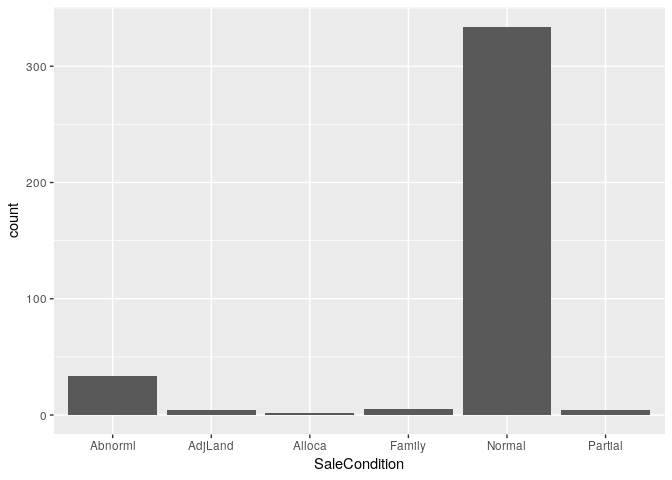
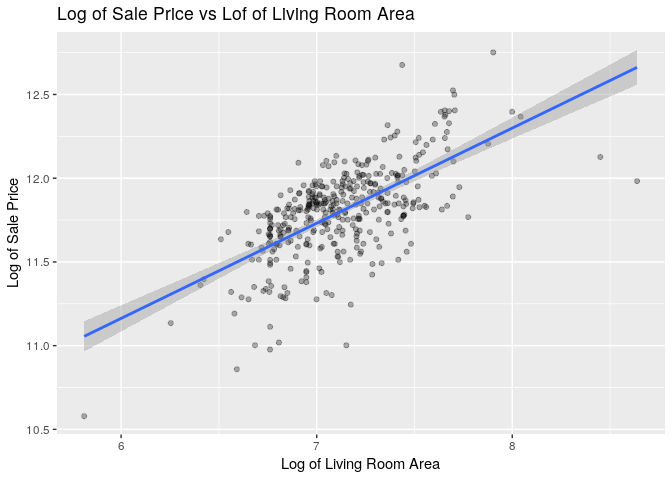
Reroder plots Change layout of assessment plots

diff --git a/analysis/studies/question1.md b/analysis/studies/question1.md
@@ -17,6 +17,11 @@ and Brookside (`NAmes`, `Edwards` and `BrkSide`).
 library(knitr)
 library(tidyverse)
 library(olsrr)
+library(gridExtra)
+
+# helper code
+source('../helper/visual.R')
+source('../helper/data_munging.R')
 
 # load data
 train <- read_csv('../data/train.csv')
@@ -30,7 +35,6 @@ test <- read_csv('../data/test.csv')
 ``` r
 # select data of interest
 train <- train %>% 
-#  select(c('SalePrice','GrLivArea','Neighborhood')) %>%
   filter(Neighborhood == 'NAmes' | Neighborhood == 'Edwards' | Neighborhood == 'BrkSide')
 train$Neighborhood <- as.factor(train$Neighborhood)
 ```
@@ -80,7 +84,7 @@ in `GrLivArea` are pulling the regression line. A log transfrom on
 
 ``` r
 train %>% ggplot(aes(x = GrLivArea, y = SalePrice)) +
-  geom_point() +
+  geom_point(alpha = 0.3) +
   geom_smooth(method = 'lm') + 
   labs(title = 'Sale Price vs Living Room Area', 
        y = 'Log of Sale Price', x = 'Living Room Area')
@@ -96,7 +100,7 @@ with an increase in varaince of `SalePrice`. A log transform of
 
 ``` r
 train %>% ggplot(aes(x = log(GrLivArea), y = SalePrice)) +
-  geom_point() +
+  geom_point(alpha = 0.3) +
   geom_smooth(method = 'lm') + 
   labs(title = 'Sale Price vs Log of Living Room Area', 
        y = 'Sale Price', x = 'Log of Living Room Area')
@@ -112,9 +116,9 @@ should be investigated.
 
 ``` r
 train %>% ggplot(aes(x = log(GrLivArea), y = log(SalePrice))) +
-  geom_point() +
+  geom_point(alpha = 0.3) +
   geom_smooth(method = 'lm') + 
-  labs(title = 'Log of Sale Price vs Lof of Living Room Area', 
+  labs(title = 'Log of Sale Price vs Log of Living Room Area', 
        y = 'Log of Sale Price', x = 'Log of Living Room Area')
 ```
 
@@ -128,31 +132,60 @@ were not completed at the time of assessment.
 
 ``` r
 train %>% ggplot(aes(x = log(GrLivArea), y = log(SalePrice))) +
-  geom_point() +
+  geom_point(alpha = 0.3) +
   geom_smooth(method = 'lm') + 
-  labs(title = 'Log of Sale Price vs Lof of Living Room Area', 
+  labs(title = 'Log of Sale Price vs Log of Living Room Area', 
        y = 'Log of Sale Price', x = 'Log of Living Room Area') +
   geom_text(aes(label = ifelse((log(GrLivArea) > 7.75 & log(SalePrice) > 11) |
                                  (log(SalePrice) > 12.45),
-                               SaleCondition, '')),
-            hjust=0,
-            vjust=0)
+                               SaleCondition, '')), hjust=0, vjust=0)
 ```
 
 ![](question1_files/figure-gfm/log-log-plot-labeled-1.png)<!-- -->
 
-``` r
-train %>% ggplot(aes(x = SaleCondition)) + 
-  geom_bar()
-```
-
-![](question1_files/figure-gfm/unnamed-chunk-2-1.png)<!-- -->
+Reploting without the influential values as little difference on the
+regression line. These points will be included in the regression
+analysis.
 
 ``` r
-# create dummy variables with Neighborhood == 'Edwards' as reference
-train$Neighborhood_BrkSide <-  as.numeric(train$Neighborhood == 'BrkSide')
-train$Neighborhood_NAmes <-  as.numeric(train$Neighborhood == 'NAmes')
+temp <- train %>% filter(SaleCondition != 'Partial')
+temp %>% ggplot(aes(x = log(GrLivArea), y = log(SalePrice))) +
+  geom_point(alpha = 0.3) +
+  geom_smooth(method = 'lm') + 
+  labs(title = 'Log of Sale Price vs Log of Living Room Area', 
+       y = 'Log of Sale Price', x = 'Log of Living Room Area')
 ```
+
+![](question1_files/figure-gfm/repolt-without-partial-points-1.png)<!-- -->
+
+Scatter plot log of sale price vs log of living room area for each
+neighborhood. In each case, there is not sigificant evidence again the
+assumption of linearity.
+
+``` r
+regplot.names <- train %>% filter(Neighborhood == 'NAmes') %>%
+  ggplot(aes(x = log(GrLivArea), y = log(SalePrice))) +
+  geom_point(alpha = 0.3) +
+  geom_smooth(method = 'lm') + 
+  labs(subtitle = 'Northwest Ames', 
+       y = 'Log of Sale Price', x = 'Log of Living Room Area')
+regplot.ed <- train %>% filter(Neighborhood == 'Edwards') %>%
+  ggplot(aes(x = log(GrLivArea), y = log(SalePrice))) +
+  geom_point(alpha = 0.3) +
+  geom_smooth(method = 'lm') + 
+  labs(subtitle = 'Edwards', 
+       y = 'Log of Sale Price', x = 'Log of Living Room Area')
+regplot.brk <- train %>% filter(Neighborhood == 'BrkSide') %>%
+  ggplot(aes(x = log(GrLivArea), y = log(SalePrice))) +
+  geom_point(alpha = 0.3) +
+  geom_smooth(method = 'lm') + 
+  labs(subtitle = 'Brook Side', 
+       y = 'Log of Sale Price', x = 'Log of Living Room Area')
+grid.arrange(regplot.names,regplot.ed,regplot.brk, nrow = 2,
+             top = 'Regression Plots for Neighborhoods')
+```
+
+![](question1_files/figure-gfm/log-log-plot-by-N-1.png)<!-- -->
 
 ## Model
 
@@ -161,6 +194,14 @@ Based on the log-log plot above, the response will be modeled as
 ![model\_equation](./question1_files/model_equation.png)
 
 where Edwards neighborhood is used for reference.
+
+``` r
+# create dummy variables with Neighborhood == 'Edwards' as reference
+train <- get.dummies(train, "Neighborhood", 'Edwards')
+```
+
+    ## [1] "Neighborhood_BrkSide"
+    ## [1] "Neighborhood_NAmes"
 
 ``` r
 # model the mean response given equation above
@@ -207,66 +248,19 @@ summary(model)
 ## Model Assumption Assessment
 
 ``` r
-# get predicted values
-train$Predicted <- predict(model, train[,c('GrLivArea','Neighborhood_BrkSide','Neighborhood_NAmes')])
-train$Resid <- model$residuals
+basic.fit.plots(train, model)
 ```
 
-### Normality
+![](question1_files/figure-gfm/diag-plots-1.png)<!-- -->
 
 ``` r
-qqnorm(model$residuals)
-```
-
-![](question1_files/figure-gfm/unnamed-chunk-5-1.png)<!-- -->
-
-``` r
-hist(model$residuals)
-```
-
-![](question1_files/figure-gfm/unnamed-chunk-5-2.png)<!-- -->
-
-### Linear Trend
-
-``` r
-train %>% ggplot(aes(x = log(GrLivArea), y = log(SalePrice))) +
-  geom_point() +
-  geom_smooth(method = 'lm') + 
-  labs(title = 'Log of Sale Price vs Lof of Living Room Area', 
-       y = 'Log of Sale Price', x = 'Log of Living Room Area')
-```
-
-![](question1_files/figure-gfm/unnamed-chunk-6-1.png)<!-- -->
-
-### Equal Variances
-
-``` r
-train %>% ggplot(aes(x = Predicted, y = Resid)) +
-  geom_point() +
-  geom_abline(slope = 0)
-```
-
-![](question1_files/figure-gfm/unnamed-chunk-7-1.png)<!-- -->
-
-### Other Plots
-
-``` r
-# Rstudent vs leverage
 ols_plot_resid_lev(model)
 ```
 
-![](question1_files/figure-gfm/assumption_plots-1.png)<!-- -->
-
-``` r
-ols_plot_resid_stand(model)
-```
-
-![](question1_files/figure-gfm/assumption_plots-2.png)<!-- -->
+![](question1_files/figure-gfm/diag-plots-2.png)<!-- -->
 
 ``` r
 ols_plot_cooksd_bar(model)
 ```
 
-![](question1_files/figure-gfm/assumption_plots-3.png)<!-- -->
-
-\[ASE = \frac{\sum_{n=1}^{N} (y_i - \hat{y}_i)^2 }{N}\]
+![](question1_files/figure-gfm/diag-plots-3.png)<!-- -->
